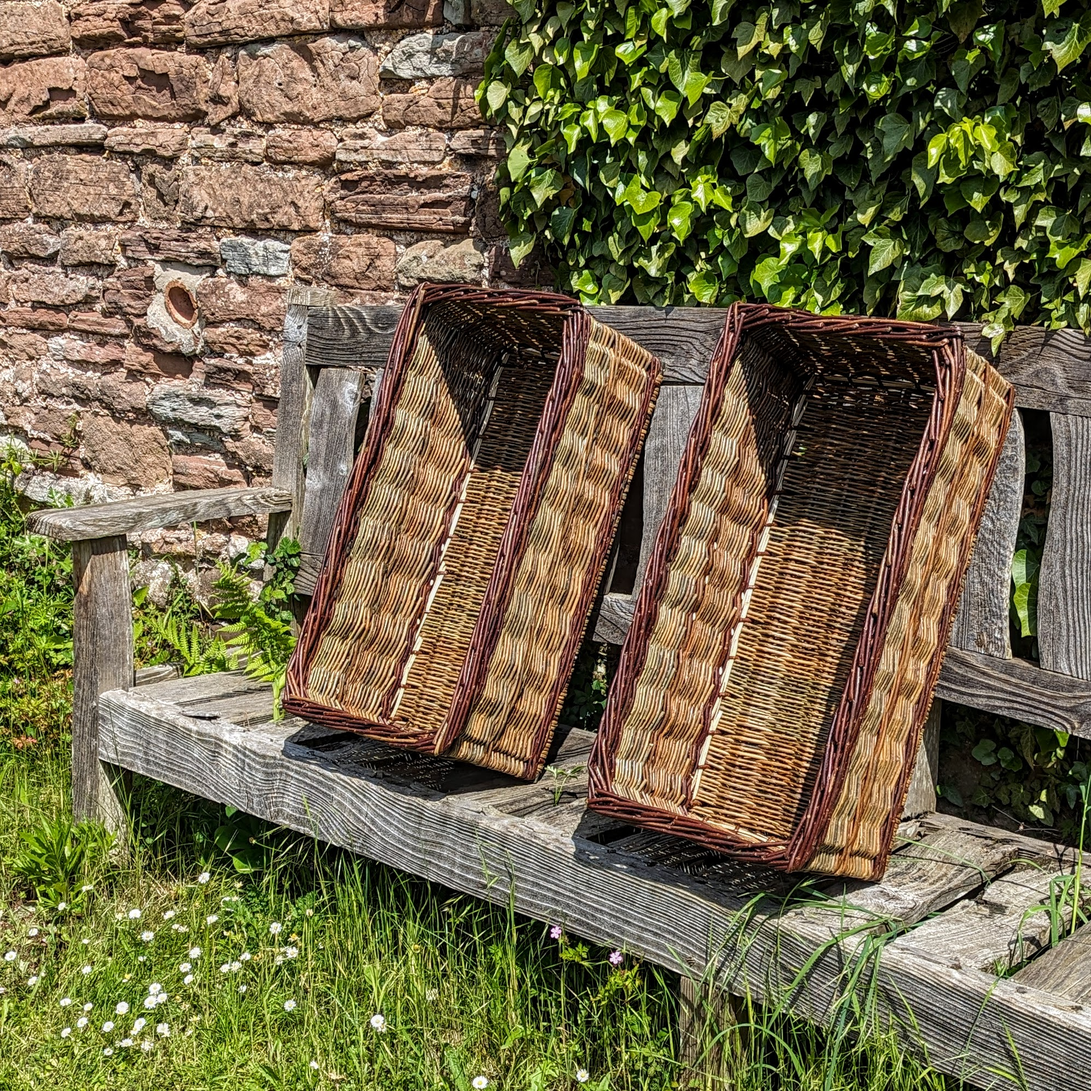
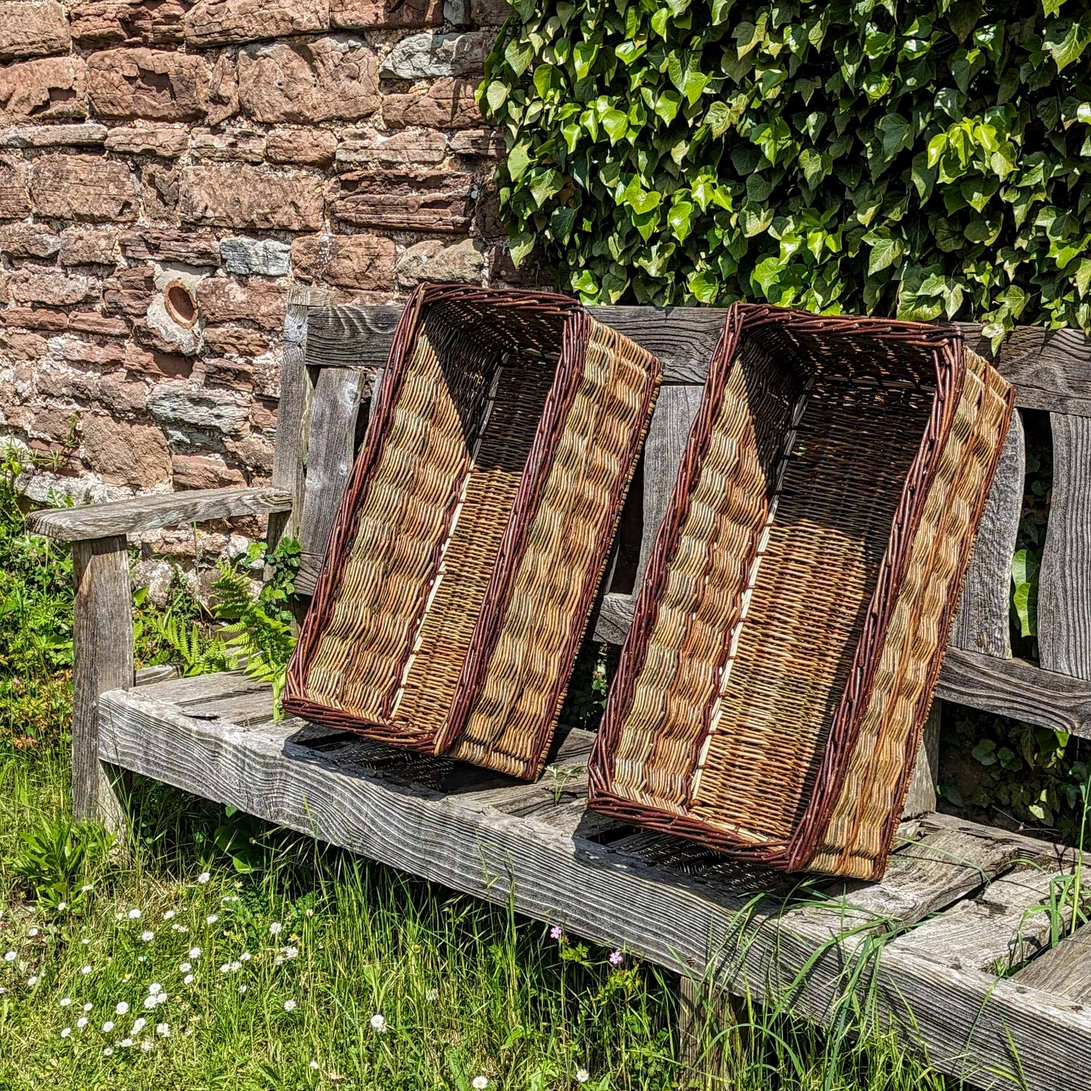
smaller file sizes and meta description

diff --git a/index.html b/index.html
@@ -9,6 +9,7 @@
     <title>Wild Wicker</title>
     <link rel="icon" href="images/wildwicker_favicon.ico" type="image/x-icon">
     <meta name="description" content="Willow weaving courses with contemporary basketmaker Clyde Hoare at Wobage Farm Craft Workshops in Herefordshire">
+    <meta name="google-site-verification" content="3VKPnhUYLHY4OmDcoUE-TfHdc4JGHY_9TSvQCqrdGiI" />
 </head>
 
 <body>
@@ -115,7 +116,7 @@
                                              <p class="padding-bottom-25">  </p>
                                              <div class="carousel-container">
                                                          <img src="./images/gallery/1_gallery_hanging_baskets.jpg" alt="Hanging baskets">
-                                                         <img src="./images/gallery/2_large_log_basket.jpeg" alt="Large log basket">
+                                                         <img src="./images/gallery/2_large_log_basket.jpg" alt="Large log basket">
                                                          <img src="./images/gallery/3_round_basket_weave.jpeg" alt="Round basket weave">
                                                          <img src="./images/gallery/4_round_basket.jpeg" alt="Round basket">
                                                          <img src="./images/gallery/5_square_handled_basket.jpeg" alt="Square handled basket">

diff --git a/styles.css b/styles.css
@@ -6,7 +6,7 @@ body {
     flex-direction: column;
     align-items: center;
     justify-content: space-between;
-    background: url('./images/spiral_tray_1.9mb.jpg') no-repeat center center fixed;
+    background: url('./images/spiral_tray.jpg') no-repeat center center fixed;
     background-size: cover;
     color: white;
     font-family: 'Georgia', serif;
